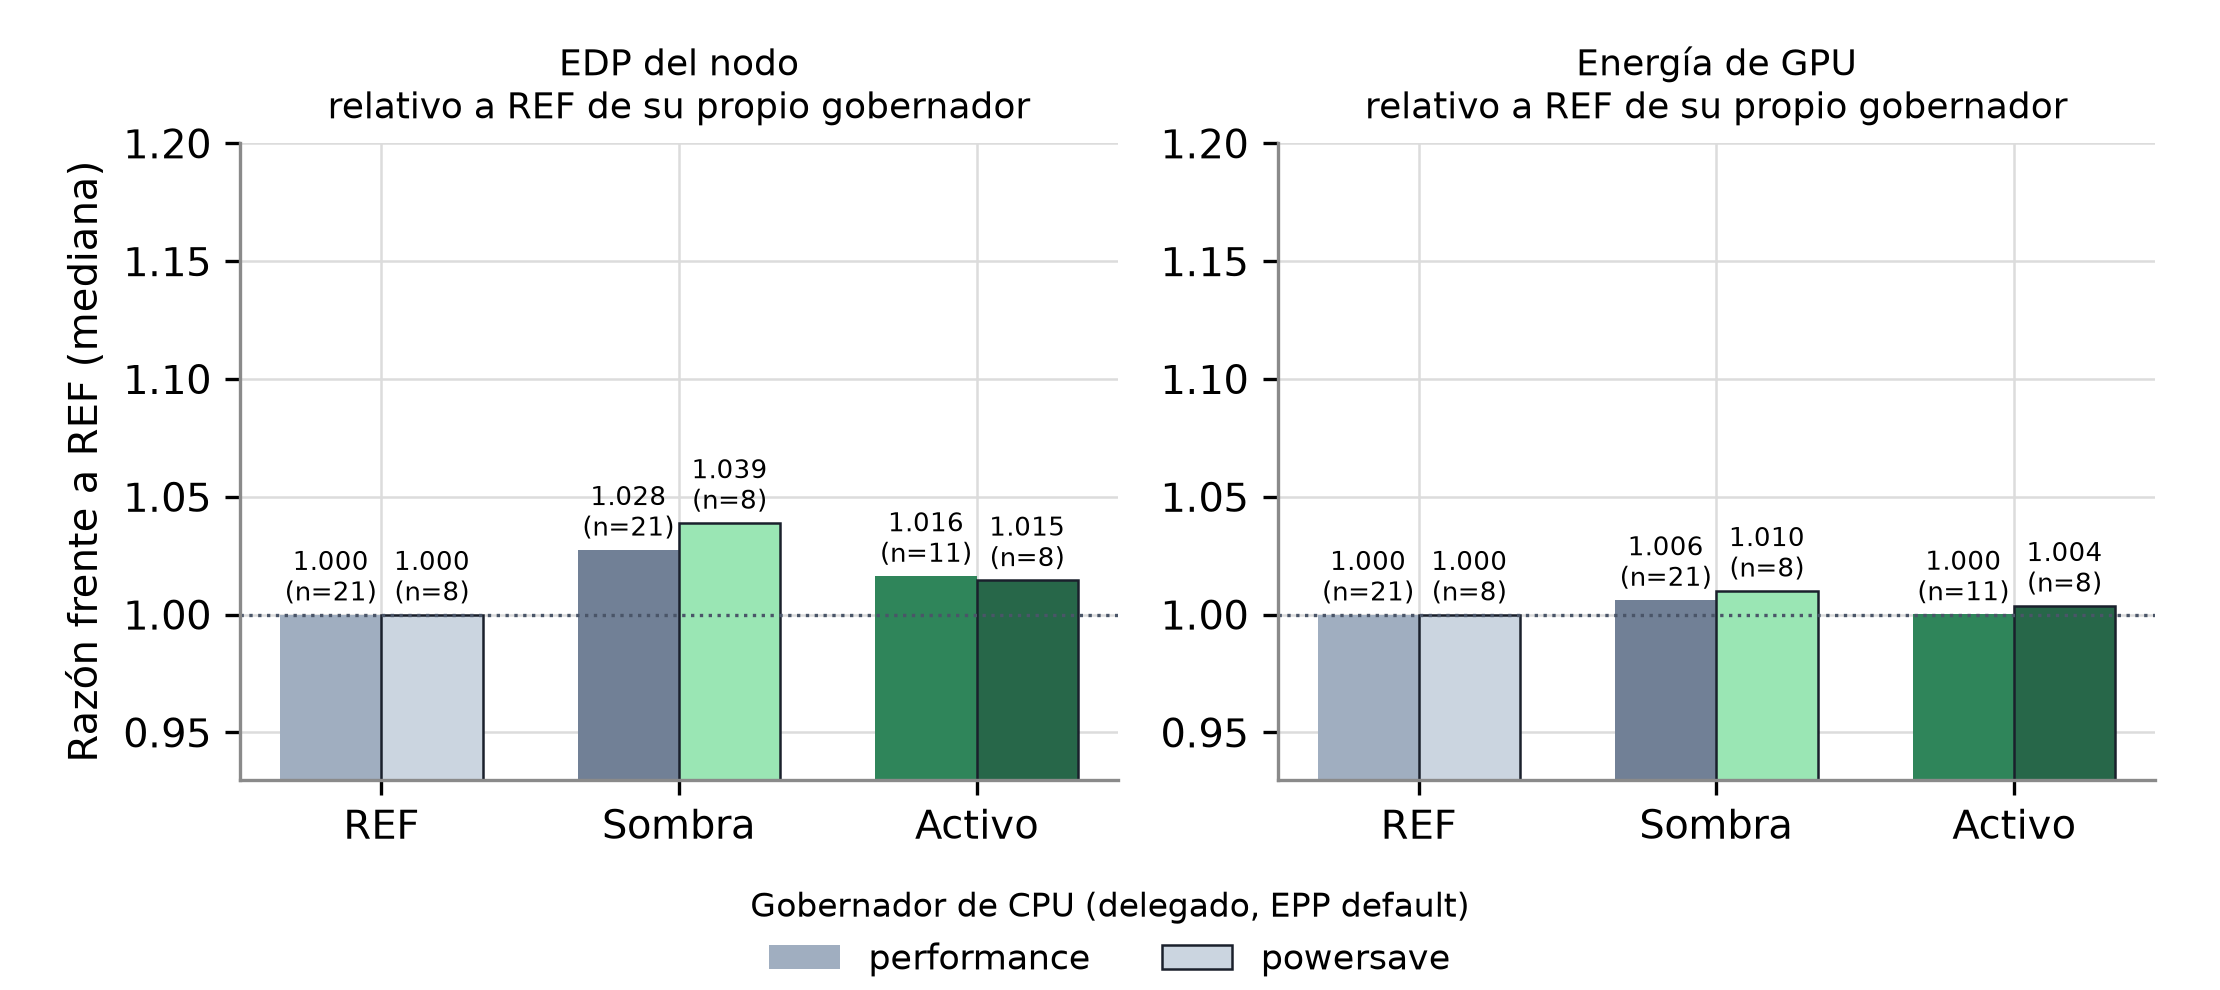
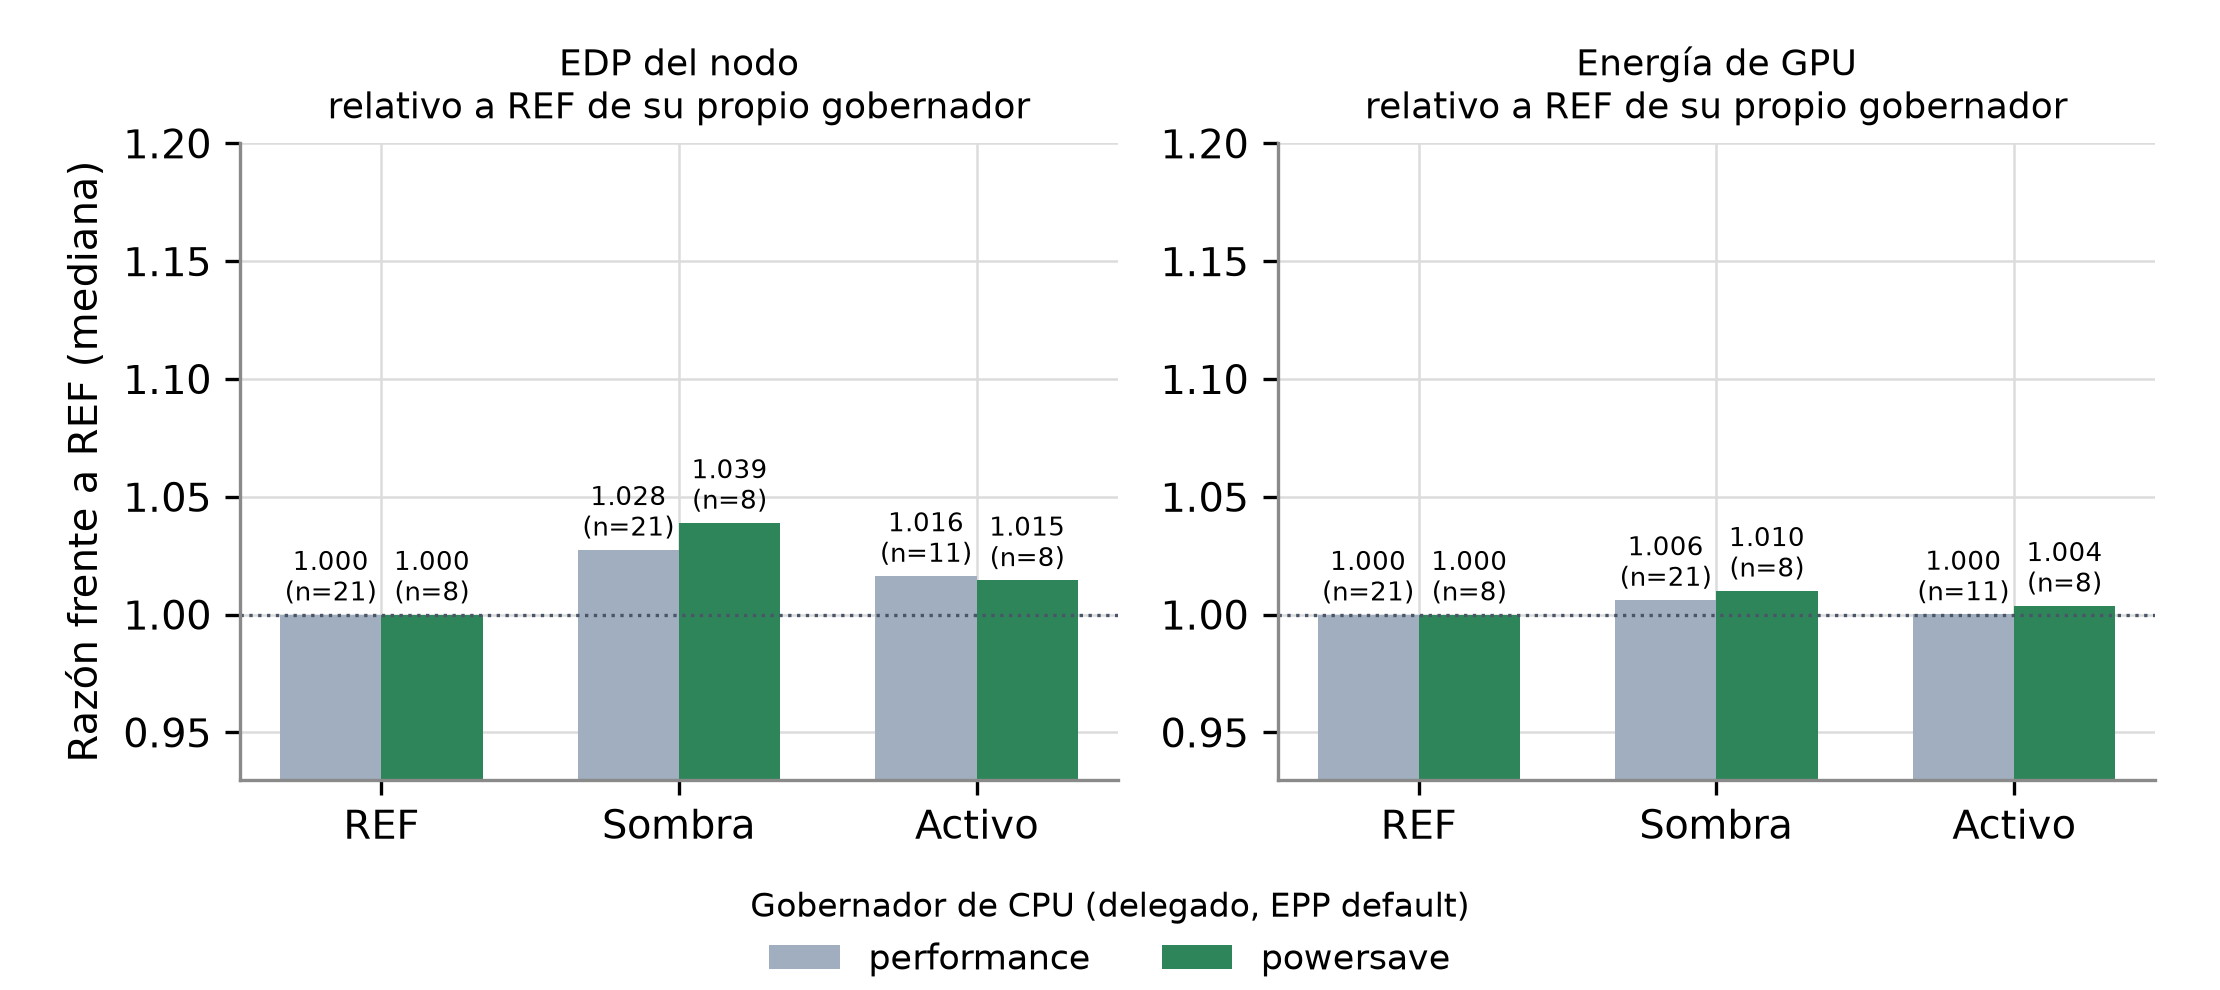
Actualizacion libro: Revision de graficas

diff --git a/docs/libro/secciones/03_resultados.tex b/docs/libro/secciones/03_resultados.tex
@@ -449,7 +449,7 @@ El ahorro del nodo es modesto porque la CPU consume el 64\% de la energía y no 
 
 El brazo F1 fijo, previsto en el protocolo, no produjo celdas válidas, porque el reloj observado bajo carga quedó fuera del intervalo de 1230--1290~MHz exigido en cerca del 21\% de las muestras de cada bloque. Por eso el confirmatorio reproduce la mejora frente a la base, pero no permite establecer la ventaja de cambiar por fase frente a mantener F1 toda la aplicación. La premedición diagnóstica de F1 fijo anticipó el problema (en DGEMM el reloj observado con F1 fue indistinguible de la base) y no se usa para estimar el efecto del agente.
 
-\paragraph{Familias inéditas (E-B).} La fase de \textit{myocyte} dura unos 41~s o unos 50~s sin relación con el brazo, con valores intermedios de 42 a 44.5~s, así que una mediana de tres repeticiones no permite comparar, y razones como 0.84 de EDP solo reflejan qué repeticiones lentas cayeron en cada brazo. Por eso se agruparon las repeticiones de las tres corridas de esta aplicación con la misma configuración (la etapa E, una repetición de ocho bloques y una corrida de diagnóstico), con 21 repeticiones de la base y de sombra y 11 del brazo activo (Figura \ref{fig:fase4-E}). Sombra y activo quedan en 1.028 y 1.016 del EDP de la base y en 1.017 y 1.012 de su duración, sin diferencia distinguible ($p=0.21$ y $0.55$ en EDP, Mann--Whitney), y la energía de GPU queda en 1.006 y 1.000. La fracción de repeticiones lentas es parecida en los tres brazos (5 de 21 en la base, 4 de 21 en sombra y 3 de 11 en el activo). La corrida de diagnóstico, con telemetría de GPU, de la frecuencia, del núcleo donde corre la aplicación y de los demás hilos del nodo, no encontró diferencia entre repeticiones lentas y rápidas. Fijar el proceso del agente de GPU a un núcleo fuera de los núcleos 0 a 5 tampoco las elimina de forma distinguible. La variabilidad es entonces de la aplicación, y su causa no está identificada. BabelStream recibió una decisión de memoria en 2 de las 11 repeticiones del brazo activo (confianza 1.00), con 11 a 13\% menos de energía de GPU que una repetición rápida de la base, y en las otras nueve se abstuvo (confianza 0.56 a 0.67). \textit{Myocyte} no superó el umbral de actividad GPU y no recibió decisión. El límite observado es la cobertura de decisión sobre familias inéditas, no un empeoramiento por F1.
+\paragraph{Familias inéditas (E-B).} La fase de \textit{myocyte} dura unos 41~s o unos 50~s sin relación con el brazo, con valores intermedios de 42 a 44.5~s, así que una mediana de tres repeticiones no permite comparar, y razones como 0.84 de EDP solo reflejan qué repeticiones lentas cayeron en cada brazo. Por eso se agruparon las repeticiones de las tres corridas de esta aplicación con la misma configuración (la etapa E, una repetición de ocho bloques y una corrida de diagnóstico), con 21 repeticiones de la base y de sombra y 11 del brazo activo (Figura \ref{fig:fase4-E}). Sombra y activo quedan en 1.028 y 1.016 del EDP de la base. En duración, la razón frente a esa misma base es de 1.017 para sombra y de 1.012 para activo, sin diferencia distinguible ($p=0.21$ y $0.55$ en EDP, Mann--Whitney). En energía de GPU, la razón es de 1.006 para sombra y de 1.000 para activo. La fracción de repeticiones lentas es parecida en los tres brazos (5 de 21 en la base, 4 de 21 en sombra y 3 de 11 en el activo). La corrida de diagnóstico, con telemetría de GPU, de la frecuencia, del núcleo donde corre la aplicación y de los demás hilos del nodo, no encontró diferencia entre repeticiones lentas y rápidas. Fijar el proceso del agente de GPU a un núcleo fuera de los núcleos 0 a 5 tampoco las elimina de forma distinguible. La variabilidad es entonces de la aplicación, y su causa no está identificada. BabelStream recibió una decisión de memoria en 2 de las 11 repeticiones del brazo activo (confianza 1.00), con 11 a 13\% menos de energía de GPU que una repetición rápida de la base, y en las otras nueve se abstuvo (confianza 0.56 a 0.67). \textit{Myocyte} no superó el umbral de actividad GPU y no recibió decisión. El límite observado es la cobertura de decisión sobre familias inéditas, no un empeoramiento por F1.
 
 \begin{figure}[H]
     \centering
@@ -458,9 +458,11 @@ El brazo F1 fijo, previsto en el protocolo, no produjo celdas válidas, porque e
     \label{fig:fase4-E}
 \end{figure}
 
-\paragraph{Contraste con el gobernador nativo powersave (E-B).} La comparación anterior usa \textit{performance} como gobernador nativo de referencia en los núcleos delegados, igual que el resto de la Fase 4. Para contrastarla con otro gobernador nativo de Linux bajo \texttt{intel\_pstate}, se repitió la misma matriz de E-B (los mismos tres kernels inéditos, ocho bloques aleatorizados) con los 12 núcleos delegados en \textit{powersave} y el perfil de energía-rendimiento (EPP) en \textit{default}, fijado y verificado antes de medir y restaurado al terminar. Escribir el EPP \textit{default} no deja la cadena literal ``default'' en la lectura de \texttt{energy\_\allowbreak performance\_\allowbreak preference}. \texttt{intel\_pstate} en modo activo la resuelve al perfil numérico real de la plataforma para ese gobernador, que en \textit{powersave} se lee de vuelta como \textit{balance\_performance}, de forma estable. Por eso la verificación exige un gobernador y un EPP uniformes en los 12 núcleos, no el texto literal.
+\paragraph{Contraste con el gobernador nativo powersave (E-B).} La comparación anterior usa \textit{performance} como gobernador nativo de referencia en los núcleos delegados, igual que el resto de la Fase 4. Para contrastarla con otro gobernador nativo de Linux bajo \texttt{intel\_pstate}, se repitió la misma matriz de E-B, los mismos tres kernels inéditos y ocho bloques aleatorizados, con los 12 núcleos delegados en \textit{powersave} y el perfil de energía-rendimiento (EPP) en \textit{default}.
 
-La Tabla \ref{tab:fase4-EB-powersave} y la Figura \ref{fig:fase4-EB-powersave} muestran las ocho repeticiones de \textit{powersave} junto a las mismas 21/21/11 repeticiones de \textit{performance} de la comparación anterior. La base bajo \textit{powersave} queda en 1.004 de la duración y 1.002 del EDP frente a la base bajo \textit{performance}, sin diferencia distinguible ($p=0.32$ en duración y $p=0.58$ en EDP, Mann--Whitney). La energía de CPU de la base bajo \textit{powersave} incluso baja levemente frente a la de \textit{performance}, a 0.993. El gobernador nativo por sí solo no cambia el resultado en este escenario, consistente con que la CPU pasa la mayor parte del ciclo esperando a la GPU en fases dominadas por memoria. Dentro de \textit{powersave}, sombra y activo quedan en 1.039 y 1.015 del EDP de su propia base (1.020 y 1.011 de duración), sin diferencia distinguible frente a esa base ($p=0.57$ en ambos casos, Mann--Whitney) y muy cerca de los 1.028 y 1.016 ya medidos bajo \textit{performance}. El patrón del brazo activo se repite igual bajo los dos gobernadores. La ganancia de energía de GPU del brazo activo es visible pero pequeña, de 1.004 bajo \textit{powersave} y de 1.000 bajo \textit{performance}, y en ninguno de los dos casos compensa el costo de observación del brazo sombra.
+La Tabla \ref{tab:fase4-EB-powersave} y la Figura \ref{fig:fase4-EB-powersave} muestran las ocho repeticiones de \textit{powersave} junto a las mismas 21/21/11 repeticiones de \textit{performance} ya presentadas. La base bajo \textit{powersave} queda en 1.004 de la duración y 1.002 del EDP frente a la base bajo \textit{performance}, sin diferencia distinguible ($p=0.32$ en duración y $p=0.58$ en EDP, Mann--Whitney). La energía de CPU de la base bajo \textit{powersave} incluso baja levemente frente a la de \textit{performance}, a 0.993. El gobernador nativo por sí solo no cambia el resultado en este escenario. Es consistente con que la CPU pasa la mayor parte del ciclo esperando a la GPU en fases dominadas por memoria.
+
+Dentro de \textit{powersave}, sombra y activo quedan en 1.039 y 1.015 del EDP de su propia base. En duración, la razón frente a esa misma base es de 1.020 para sombra y de 1.011 para activo. Ninguna de las cuatro razones se distingue de la base ($p=0.57$ en ambos casos, Mann--Whitney), y las dos de EDP quedan muy cerca de los 1.028 y 1.016 ya medidos bajo \textit{performance}. El patrón del brazo activo se repite igual bajo los dos gobernadores. Su ganancia de energía de GPU es visible pero pequeña, de 1.004 bajo \textit{powersave} y de 1.000 bajo \textit{performance}, y en ninguno de los dos casos compensa el costo de observación del brazo sombra.
 
 \begin{table}[H]
 \centering

diff --git a/docs/libro/scripts/generar_figuras_fase4_20260929.py b/docs/libro/scripts/generar_figuras_fase4_20260929.py
@@ -27,10 +27,8 @@ from fase4_evaluacion.analyze_matrix import load_results  # noqa: E402
 
 L = ROOT / "docs" / "libro"
 D26, D29, F = L / "datos" / "fase4_20260926", L / "datos" / "fase4_20260929", L / "figuras"
-REF = "#a0aec0"
 ARMS = {"base": "REF", "sombra": "Sombra", "activo_gpu": "Activo"}
-COLOR = {"performance": {"base": REF, "sombra": "#718096", "activo_gpu": "#2f855a"},
-         "powersave": {"base": "#cbd5e0", "sombra": "#9ae6b4", "activo_gpu": "#276749"}}
+COLOR = {"performance": "#a0aec0", "powersave": "#2f855a"}
 plt.rcParams.update({
     "font.size": 9.5, "axes.edgecolor": "#8a8a8a", "axes.spines.top": False, "axes.spines.right": False,
     "axes.grid": True, "grid.color": "#dcdcdc", "grid.linewidth": 0.6, "axes.axisbelow": True, "figure.dpi": 300,
@@ -66,7 +64,7 @@ def figura(g):
         for j, gov in enumerate(("performance", "powersave")):
             xs = np.arange(len(arms)) + (j - 0.5) * w
             vals = [np.median([r[key] for r in g[gov][a]]) / refs_k[gov] for a in arms]
-            ax.bar(xs, vals, w, color=[COLOR[gov][a] for a in arms], edgecolor="#1a202c" if gov == "powersave" else "none", linewidth=0.6,
+            ax.bar(xs, vals, w, color=COLOR[gov], edgecolor="none", linewidth=0.6,
                    label=gov if key == "edp" else None)
             for x, v, a in zip(xs, vals, arms):
                 n = len(g[gov][a])
